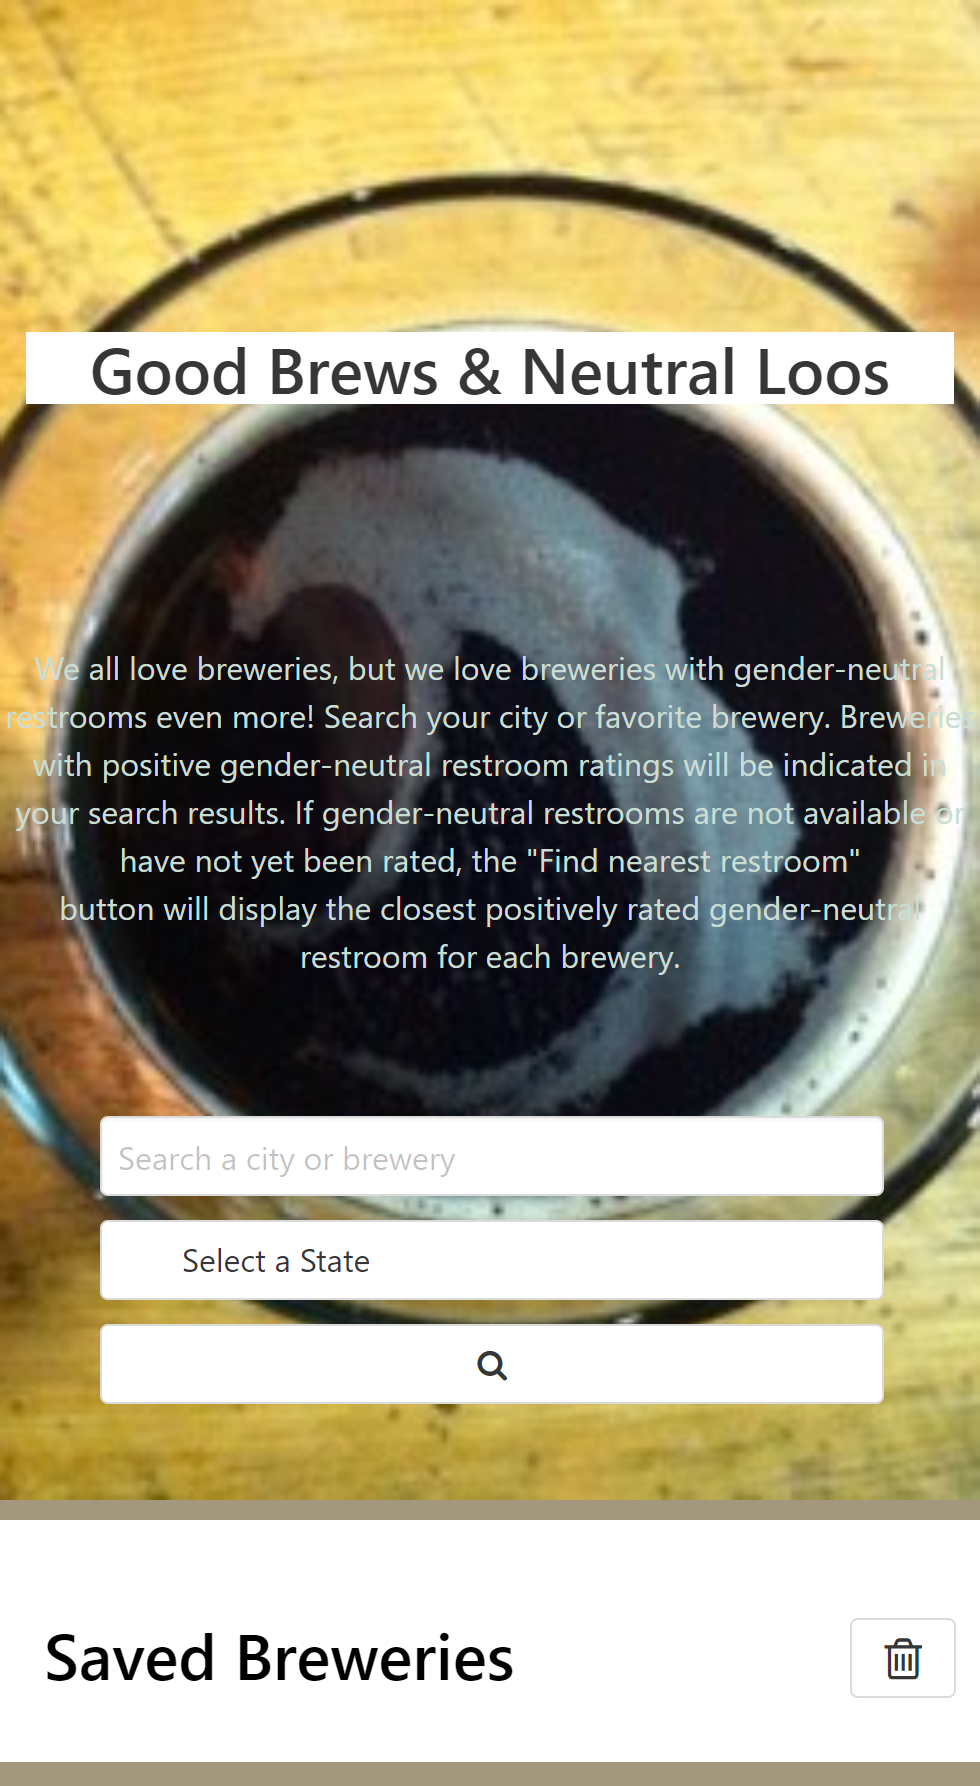
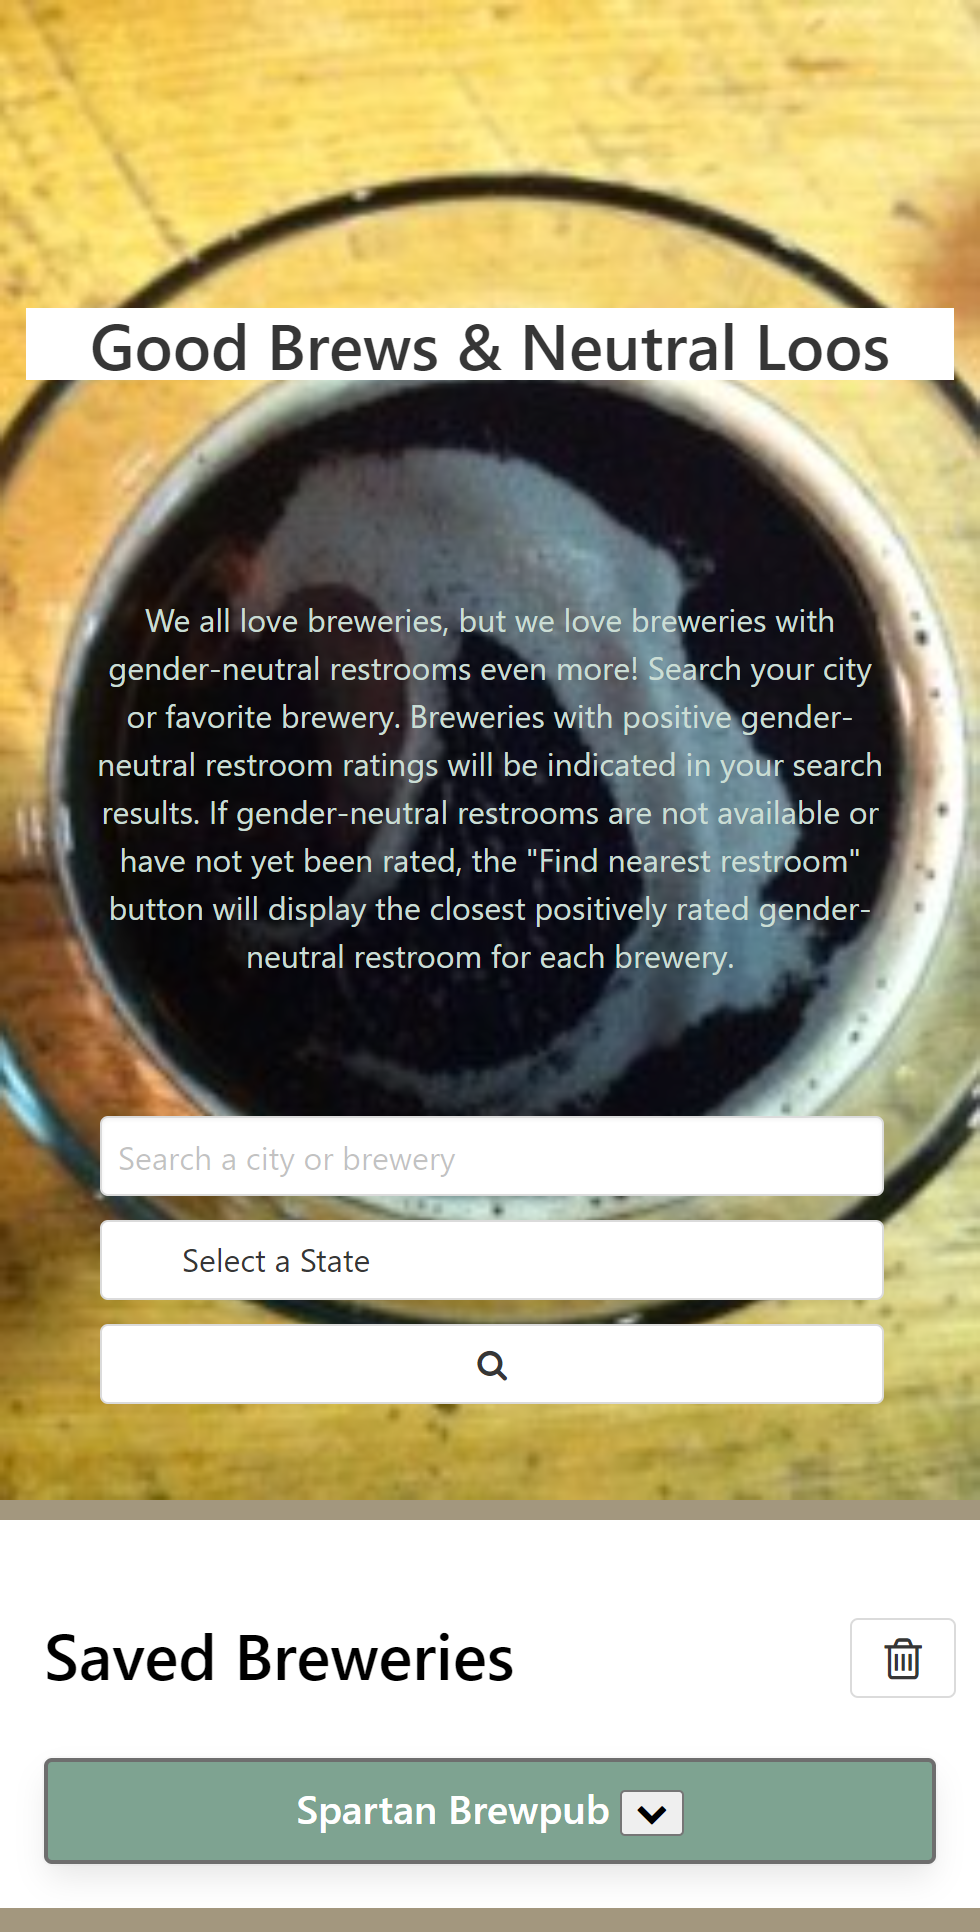
tweaked padding

diff --git a/index.html b/index.html
@@ -13,7 +13,7 @@
       <div class="titleDiv">
        <h1 class="container is-fluid title mx-5 is-4 siteTitle">Good Brews & Neutral Loos</h1>
       </div>
-      <section class="has-text-centered description">
+      <section class="has-text-centered description px-6">
        
         <p>
            We all love breweries, but we love breweries with gender-neutral restrooms even more! Search your city or
